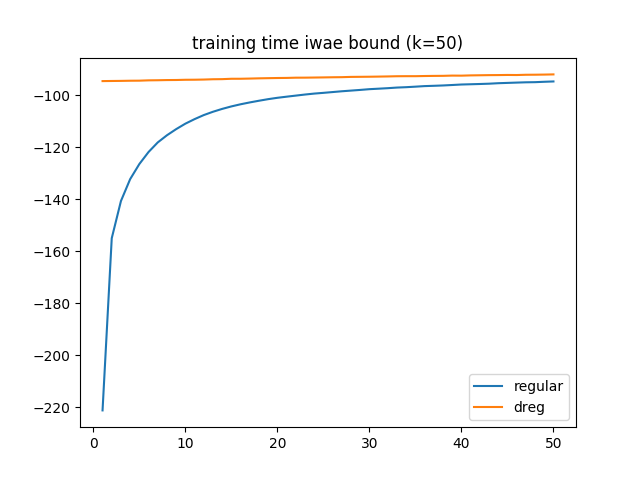
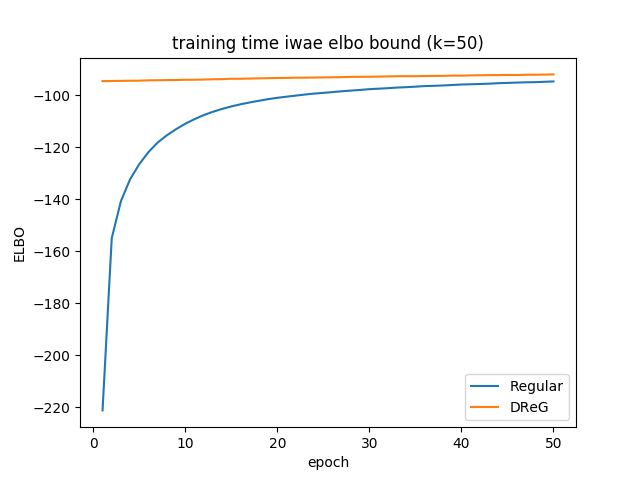
Refactor.

diff --git a/main.py b/main.py
@@ -159,8 +159,8 @@ if __name__ == '__main__':
     # Compare curve
     plt.figure()
     x = list(range(1, args.epochs + 1))
-    plt.plot(x, regular_train, label='regular')
-    plt.plot(x, dreg_train, label='dreg')
+    plt.plot(x, regular_train, label='Regular')
+    plt.plot(x, dreg_train, label='DReG')
     plt.title('training time iwae elbo bound (k={})'.format(args.train_k))
     plt.ylabel("ELBO")
     plt.xlabel("epoch")
@@ -168,8 +168,8 @@ if __name__ == '__main__':
     plt.savefig('../results/training_curve.png')
 
     plt.figure()
-    plt.plot(x, regular_test, label='regular')
-    plt.plot(x, dreg_test, label='dreg')
+    plt.plot(x, regular_test, label='Regular')
+    plt.plot(x, dreg_test, label='DReG')
     plt.title('test time iwae elbo bound (k={})'.format(args.test_k))
     plt.ylabel("ELBO")
     plt.xlabel("epoch")
